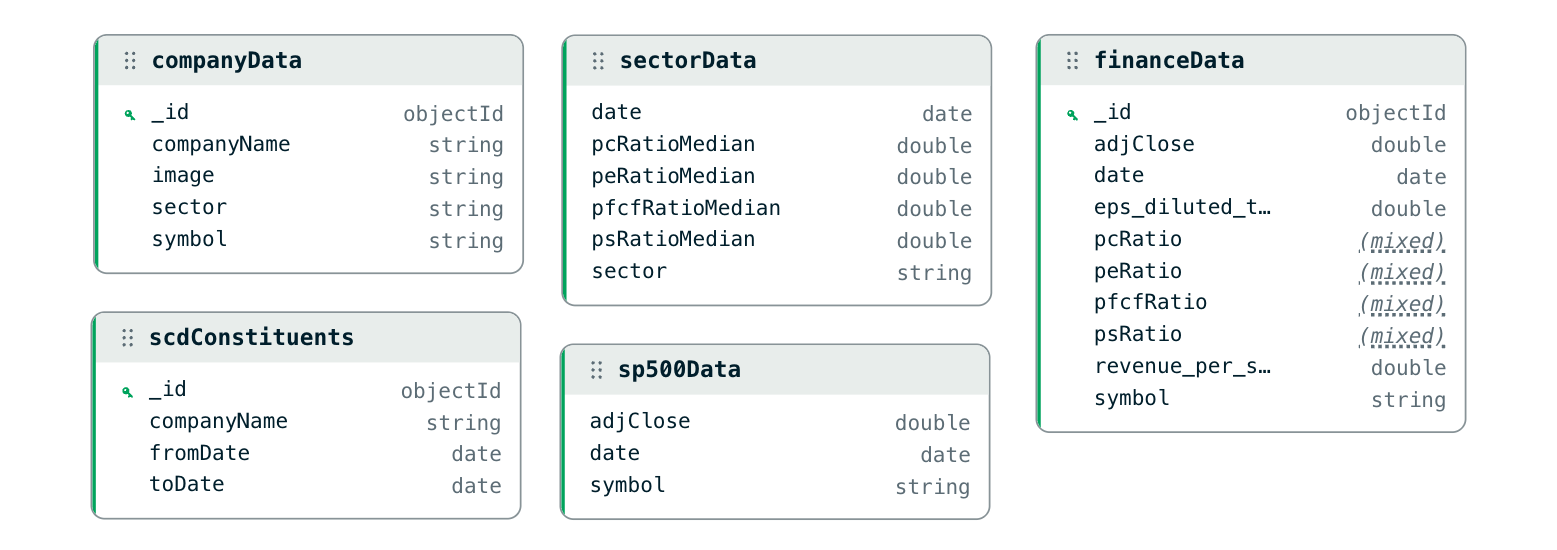
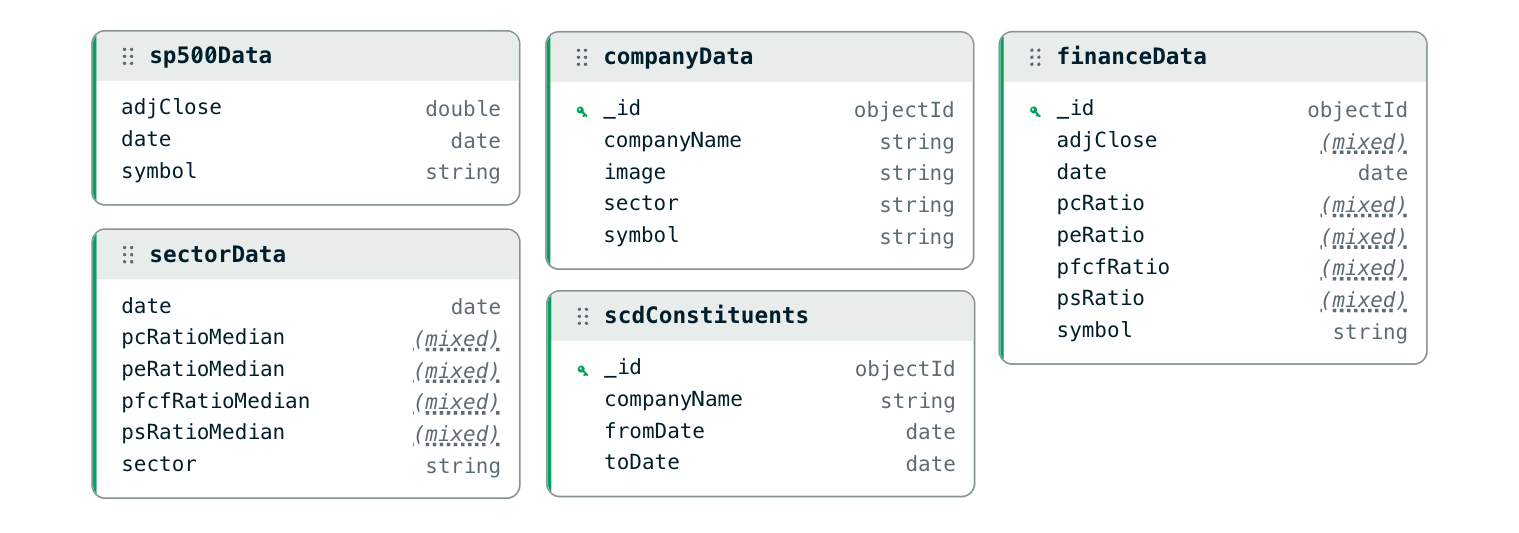
debugged and doku

diff --git a/app/pages/pipeline.py b/app/pages/pipeline.py
@@ -236,7 +236,20 @@ with col2:
             st.success(f"Pipeline abgeschlossen in {pipe_time / 60:.1f} min")
 
         st.toast("Pipeline run completed ✅")
-                
+
+    if st.button(label="Run Pipeline", icon="⚡", use_container_width=True, help="Startet den Pipeline-Prozess"):
+        with st.spinner("Pipeline läuft...", show_time=True):
+            st.write("⚙ **Pipeline**")
+            pipe_progress = st.progress(0, text="Pipeline wird ausgeführt...")
+            pipe_start = time.time()
+            
+            pipeline_service.run()
+            
+            pipe_time = time.time() - pipe_start
+            pipe_progress.progress(100, text="Pipeline abgeschlossen ✅")
+            st.success(f"Pipeline abgeschlossen in {pipe_time / 60:.1f} min")
+
+        st.toast("Pipeline run completed ✅")
                      
 
 

diff --git a/core/application/pipeline_service.py b/core/application/pipeline_service.py
@@ -96,9 +96,6 @@ class PipelineService:
                 finance_data["peRatio"] = calc_ratio(eps_ttm, adjclosed)
                 finance_data["psRatio"] = calc_ratio(rev_p_share_ttm, adjclosed)
 
-                finance_data["eps_diluted_ttm"] = eps_ttm
-                finance_data["revenue_per_share_ttm"] = rev_p_share_ttm
-
                 if contains_right_cashflow_statements(cashflow_stats, eod_price["date"]):
                     free_cashflow_ttm = calc_per_share_ttm(cashflow_stats,avg_shares_ttm, "freeCashFlow")
                     op_cashflow_ttm = calc_per_share_ttm(cashflow_stats,avg_shares_ttm, "operatingCashFlow")

diff --git a/infrastructure/mongo/mongo_repository.py b/infrastructure/mongo/mongo_repository.py
@@ -1,6 +1,6 @@
 from typing import Any
-from core.ports.base_repository_interface import BaseRepositoryInterface
-from core.ports.cursor import Cursor
+from core.interfaces.base_repository_interface import BaseRepositoryInterface
+from core.interfaces.cursor import Cursor
 from infrastructure.mongo.mongo_connection import MongoConnection
 from config.mongo_config import MongoDatabase, MongoCollection
 from config.logging_config import performance_log

diff --git a/README.md b/README.md
@@ -104,21 +104,17 @@ $\quad P/FCF = \frac{\text{Price per Share}}{\text{Free Cashflow per Share (TTM)
 
 ### **Value Strategy**
 
-> Value investing involves picking stocks that seem to be trading for less than their book value.
-
-QUELLE?
+> "Value investing involves picking stocks that seem to be trading for less than their book value." (Investopedia 2025)
 
 Eine Value Strategie basiert auf der Annahmen, dass der Aktienpreis sich von dem tatsächlichen Wert eines Unternehmens im positiven wie auch im negativen entkoppeln kann, jedoch über einen langen Zeitraum zu ihrem wahren Wert zurückkehrt. Um diese Strategie am Aktienmarkt umzusetzen werden mittels verschiedener Methoden die wahren Unternehmenswerte ermittelt. Eine Methode ist es über die Fundamentaldaten auf den Unternehmenswert Rückschlüsse zu führen. Die Hypothese von Value Investoren ist, dass man in unterbewertete Aktien investiert und sich diese mit der Zeit in Richtung ihres eigentlichen Wertes, und damit positiv entwickeln.
 
 #### James O’Shaughnessy und der Value Composite
 
-James O'Shaughnessy ist ein Amerikanischer Investor, CEO von O'Shaughnessy Ventures und Gründer von O'Shaughnessy Asset Management sowie von LLC. In seinem Buch “What Works on Wall Street” stellt er unter anderem den Value Composite One vor. Dieser besteht aus den einem kombinierten Score aus Price-to-book Ratio, Price / Sales Ratio, EBITDA / Enterprise Value, Price / Cashflow Ratio und Price / Earnings Ratio. In seinem Buch hat er mit einem Backtest von 1963 bis 2009 gezeigt, dass man mittels der Kombination aus mehreren Metriken eine Einzelmetrik in 82% der Fällen am Aktienmarkt schlägt. Sein kombinierter Score hatte eine jährliche Rendite von 17.18%.
+James O'Shaughnessy ist ein Amerikanischer Investor, CEO von O'Shaughnessy Ventures und Gründer von O'Shaughnessy Asset Management. In seinem Buch “What Works on Wall Street” stellt er unter anderem den Value Composite One vor. Dieser besteht aus den einem kombinierten Score aus Price-to-book Ratio, Price / Sales Ratio, EBITDA / Enterprise Value, Price / Cashflow Ratio und Price / Earnings Ratio. In seinem Buch hat er mit einem Backtest von 1963 bis 2009 gezeigt, dass man mittels der Kombination aus mehreren Metriken eine Einzelmetrik in 82% der Fällen am Aktienmarkt schlägt. Sein kombinierter Score hatte eine jährliche Rendite von 17.18%. vgl. O'Shaughnessy (2011), zitiert nach Estoppey (2024)
 
 #### Ratio-Auswahl und Peer-Group-Vergleich
 
-Man kann aus der uns zur Verfügung stehenden PE - Ratio, der PS - Ratio und der PFCF - Ratio einen Combined Value Score machen. Die PC - Ratio wird für den Score verworfen, da der Cashflow sonst übergwichtet wäre, und der Free Cashflow einen besseren Einblick über die tatsächlich zu Verfügung stehenden liquiden Mittel gibt. Da die einzelnen Sektoren unterschiedlichen Bedingungen und damit auch unterschiedlichen Ratio Niveaus und Abweichungen unterliegen, ist es sinnvoll eine Sektor-relative Bewertung vorzunehmen.
-
-TODO WIESO SEKTOR RELATIV ??
+Man kann aus der uns zur Verfügung stehenden PE - Ratio, der PS - Ratio und der PFCF - Ratio einen Combined Value Score machen. Die PC - Ratio wird für den Score verworfen, da der Cashflow sonst übergwichtet wäre, und der Free Cashflow einen besseren Einblick über die tatsächlich zu Verfügung stehenden liquiden Mittel gibt. Da die einzelnen Sektoren unterschiedlichen Bedingungen und damit auch unterschiedlichen Ratio Niveaus und Abweichungen unterliegen, ist es sinnvoll eine Sektor-relative Bewertung vorzunehmen. Das heißt, dass Aktien werden nur mit Aktien in ihrem Sektor verglichen.
 
 #### Robust Z-Score
 
@@ -134,13 +130,15 @@ Für die Berechnung der Robust Z-Score standardisierten Ratios werden die Median
 
 #### Momemntum Strategy
 
+Ein Momentum Indikator ist ein technischer Indikator, der dazu verwendet werden kann kurzfristige Börsentrends zu identifizieren. vgl. (Sue Man Fan 2010, S. 87) Investoren, die der Momentum Strategie folgen, gehen davon aus, dass Aktien, die gut laufen, auch weiterhin gut laufen werden. "[...] strategies which buy stocks that have performed well in the past and sell stocks that have performed poorly in the past generate significant positive returns over 3-to 12-month holding periods." (JEGADEESH & TITMAN 1993, Abstract)
+
 ### Momentum Score
 
-Der Momentum Score basiert rein auf technischen Daten und ist die Rendite aus den letzten 6 Monate. Er dient als Vergleich zum Momentum Score. Je besser die Performance der letzten 6 Monate, desto höher der Score. Momentum Investoren gehen davon aus, dass Aktien, die gut laufen auch weiterhin gut laufen werden.
+Der Momentum Score basiert rein auf technischen Daten und ist die Rendite aus den letzten 6 Monate. Er dient als Vergleich zum Momentum Score. Je besser die Performance der letzten 6 Monate, desto höher der Score.
 
 $\quad \text{Price Index}_{6M} = \frac{Price_{end}}{Price_{start}} - 1$
 
-TODO MEHR? RENDERT NICHT
+TODO RENDERT NICHT
 
 ## Technologie
 
@@ -285,7 +283,17 @@ Bevor die Rohdaten in die “raw” Datenbank importiert werden, wird zuerst mit
 
 Abb. 3: Zielschema. Quelle: Eigene Darstellung
 
-TODO
+Das Schema für **Company Data** kann folglich wie eine Dimension gesehen werden, die lediglich Kontextdaten beinhaltet, die für Aggregationen oder die Anzeige im Dashboard relevant sind.
+
+Die **Constituents** Collection ist eine Slowly Changing Dimension und wird im Gegensatz zu den anderen Company-Bezogenen Collections nicht über den Ticker/ das Symbol referenziert, sondern über den Company Namen, da der Ticker / das Symbol im Index neu vergeben werden kann.
+
+Die **Finance Data** - Collection ist eine Time Series Collection mit dem "timeField" : "date" und dem "metaField": "symbol". Somit werden Mongo-internen Buckets auf dem Date und dem Symbol erstellt. Die "granularity" ist auf "hours" konfiguriert, da wir tägliche Börsenwerte haben und "hours" die gröbste Granularität in Mongo ist. Somit werden Daten bis zu einem Monat gruppiert in die Buckets eingefügt. Die Ratio-Felder sind als nullable definiert, da nicht für jeden Datenpunkt alle Kennzahlen berechnet werden können – etwa bei einer negativen Price / Earnings Ratio.
+
+**Sector Data** ist ebenfalls eine Time Series Collection und hat die gleiche Konfiguration wie die Finance Data Collection. Hier ist das "metafield" allerdings "sector" und damit sind die Buckets auch auf Sektor und date erstellt.
+
+Das Schema für **SP500 Data** ist bis auf die fehlenden Ratios das gleiche wie die Finance Data Collection. Es handelt sich ebenfalls um eine Time Series.
+
+Für alle Time Series Collections gilt, dass Dokumente kein eindeutiges \_id-Feld brauchen. MongoDB erstellt keinen Index auf \_id und deshalb spielt \_id für Performance oder Queries meist keine Rolle. Das \_id-Feld könnte also aus der Finance Data Collection auch entfernt werden. Dies wurde der Einfachkeit halber nicht gemacht.
 
 ### Datenfluss
 
@@ -304,7 +312,7 @@ Abb. 4: Datenflussdiagramm. Quelle: Eigene Darstellung
 
 #### Constituents - scdConstituents
 
-Aus der 0_sp_500_constituents_historical_2026.json wird eine Slowly Changing Dimension Type 2 erstellt, um nachvollziehen zu können, wann ein Unternehmen in den Index aufgenommen oder aus dem Index herausgenommen wurde. Diese Collection bleibt bisher ungenutzt, ist aber schon angelegt, da für eine Evaluierung von einer Value Strategie diese Informationen wichtig sind, weil ...
+Aus der 0_sp_500_constituents_historical_2026.json wird eine Slowly Changing Dimension Type 2 erstellt, um nachvollziehen zu können, wann ein Unternehmen in den Index aufgenommen oder aus dem Index herausgenommen wurde. Diese Collection bleibt bisher ungenutzt, ist aber schon angelegt, da für eine Evaluierung von einer Value Strategie diese Informationen wichtig sind, um einen möglichen Survivorship Bias auszuschließen.
 
 #### S&P500 Data
 
@@ -320,30 +328,64 @@ Diese Collection ist das Ergebnis der Aggregation aus der Financedata Zeitreihe 
 
 ## Dashboard
 
-TODO Bilder einfügen
-
 Das Dashboard gliedert sich in fünf Pages, die den Funktionsumfang der Anwendung strukturiert abbilden.
 
 ### Sector Page
 
 Die **Sector Page** dient als Einstiegspunkt des Dashboards. Sie bietet eine sektorweite Übersicht, in der der Nutzer einen Sektor auswählen, verschiedene Ratios selektieren und die enthaltenen Unternehmen visuell miteinander vergleichen kann. Eine eingezeichnete Medianlinie ermöglicht dabei eine schnelle Einordnung einzelner Unternehmen relativ zur Peer Group.
 
+![sector Page](attachments/sector_comparison.png)
+
 ### Company Page
 
 Die **Company Page** ermöglicht die gezielte Analyse einzelner Unternehmen über eine Suchfunktion. Nach Auswahl eines Unternehmens werden Stammdaten, historische Aktienkurse sowie die zeitliche Entwicklung der verfügbaren Ratios dargestellt. Der historische Kursverlauf kann dabei dem S&P 500 gegenübergestellt werden. Zusätzlich werden die Renditen der letzten 1, 3, 5 und 10 Jahre ausgewiesen.
+
+![sector Page](attachments/companydata.png)
+![Price Ratios vs Sector](attachments/ratio_delta.png)
+![Comparison w SP500](attachments/comparison_with_sp500.png)
 
 ### Top-10 Ranking Page Page
 
 Die **Top-10 Ranking Page** zeigt die zehn bestplatzierten Unternehmen eines ausgewählten Sektors zu einem definierten Datum. Das Ranking kann wahlweise nach dem Combined Value Score oder dem Momentum Score dargestellt werden, was einen direkten Vergleich beider Strategien ermöglicht.
 
+![Top 10 Value Ranking](attachments/top10_value.png)
+
 ### Full Ranking Page
 
 Die **Full Ranking Page** stellt das vollständige sektorweite Ranking dar. Der Nutzer kann entweder den gesamten Sektor einsehen oder gezielt nach einzelnen Unternehmen suchen und deren Rankingposition nachvollziehen.
+
+![Ranking Search](attachments/search_ranking.png)
 
 ### Pipeline Page
 
 Die **Pipeline Page** dient als administrative Steuerungsseite der Anwendung. Über sie kann der Datenimport gestartet und die Verarbeitungspipeline ausgelöst werden. Sie bildet damit den operativen Einstiegspunkt für die Datenbeschaffung und -verarbeitung.
 
-## Schluss
+![](attachments/pipeline.png)
+
+# Schluss
 
 TODO
+
+# Literaturverzeichnis
+
+Martin, Robert C..
+
+_Clean Architecture : Das Praxis-Handbuch für professionelles SoftwaredesignRegeln und Paradigmen für effiziente Softwarestrukturierung_, mitp, 2018. _ProQuest Ebook Central_, http://ebookcentral.proquest.com/lib/koln/detail.action?docID=5311206. Created from koln on 2026-03-25 10:59:00.
+
+Martin, Robert C.:
+
+_The Dependency Inversion Principle_. Mai 1996 ([PDF](https://web.archive.org/web/20110714224327/http://www.objectmentor.com/resources/articles/dip.pdf) ([Memento](https://de.wikipedia.org/wiki/Webarchivierung#Begrifflichkeiten) vom 14. Juli 2011 im [_Internet Archive_](https://de.wikipedia.org/wiki/Internet_Archive))).
+
+Investopedia. Value Investing Definition, How It Works, Strategies, and Risks. Juli 2025 https://www.investopedia.com/terms/v/valueinvesting.asp
+
+Estoppey Value Investments. (2024). What is a Value Composite?
+Abgerufen am 26.03.26 von
+https://valueinvestments.ch/en/lexicon/value-composite/
+
+O'Shaughnessy, J. P. (2011). What Works on Wall Street:
+The Classic Guide to the Best-Performing Investment
+Strategies of All Time (4. Aufl.). McGraw-Hill.
+
+Sue Man Fan, Multiple Tests für die Evaluation von Prognosemodellen, 2010, S. 87, [Google Books](https://www.google.de/books/edition/Multiple_Tests_f%C3%BCr_die_Evaluation_von_P/q7dFUZp9h5kC?hl=de&gbpv=1&dq=momentum+zeitreihe&pg=PA87&printsec=frontcover)
+
+JEGADEESH & TITMAN, Returns to Buying Winners and Selling Losers: Implications for Stock Market Efficiency, 1993 https://doi.org/10.1111/j.1540-6261.1993.tb04702.x
